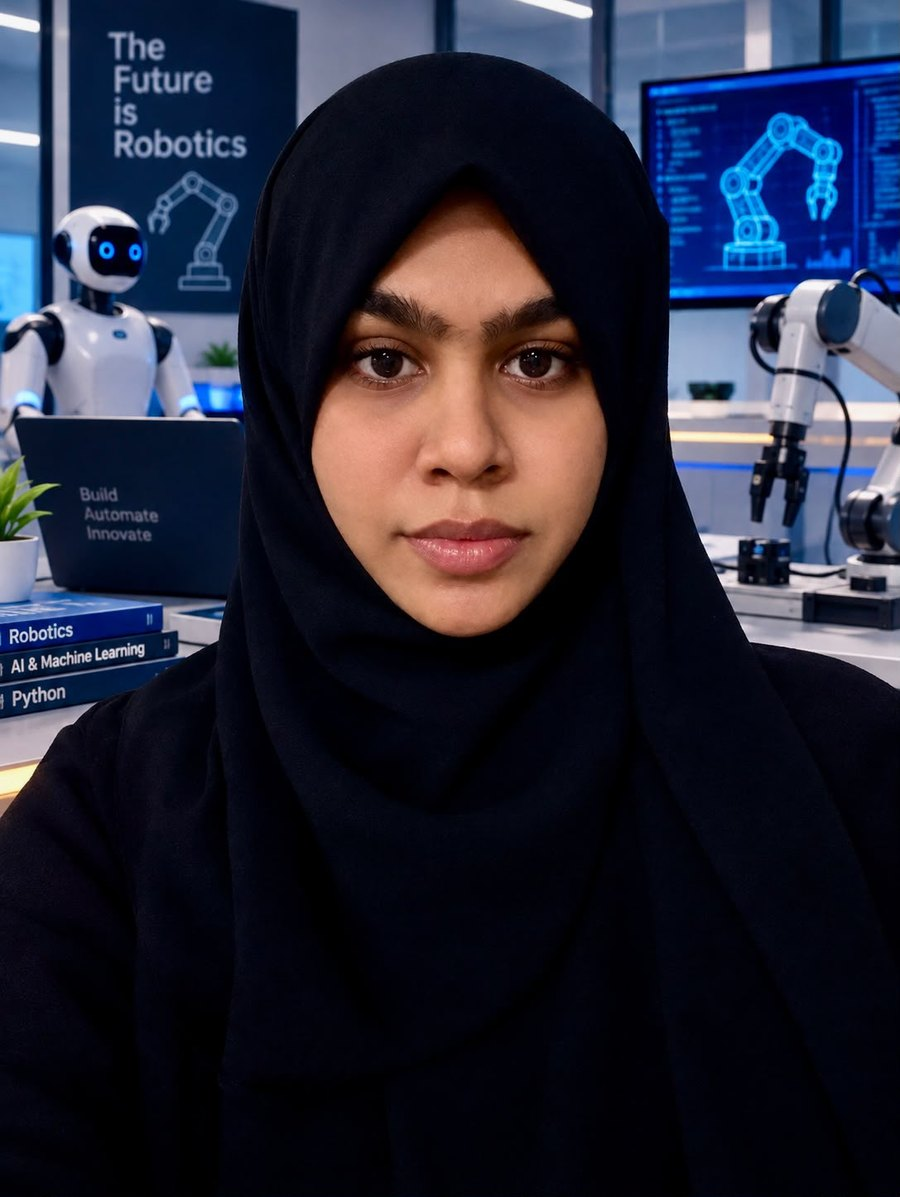
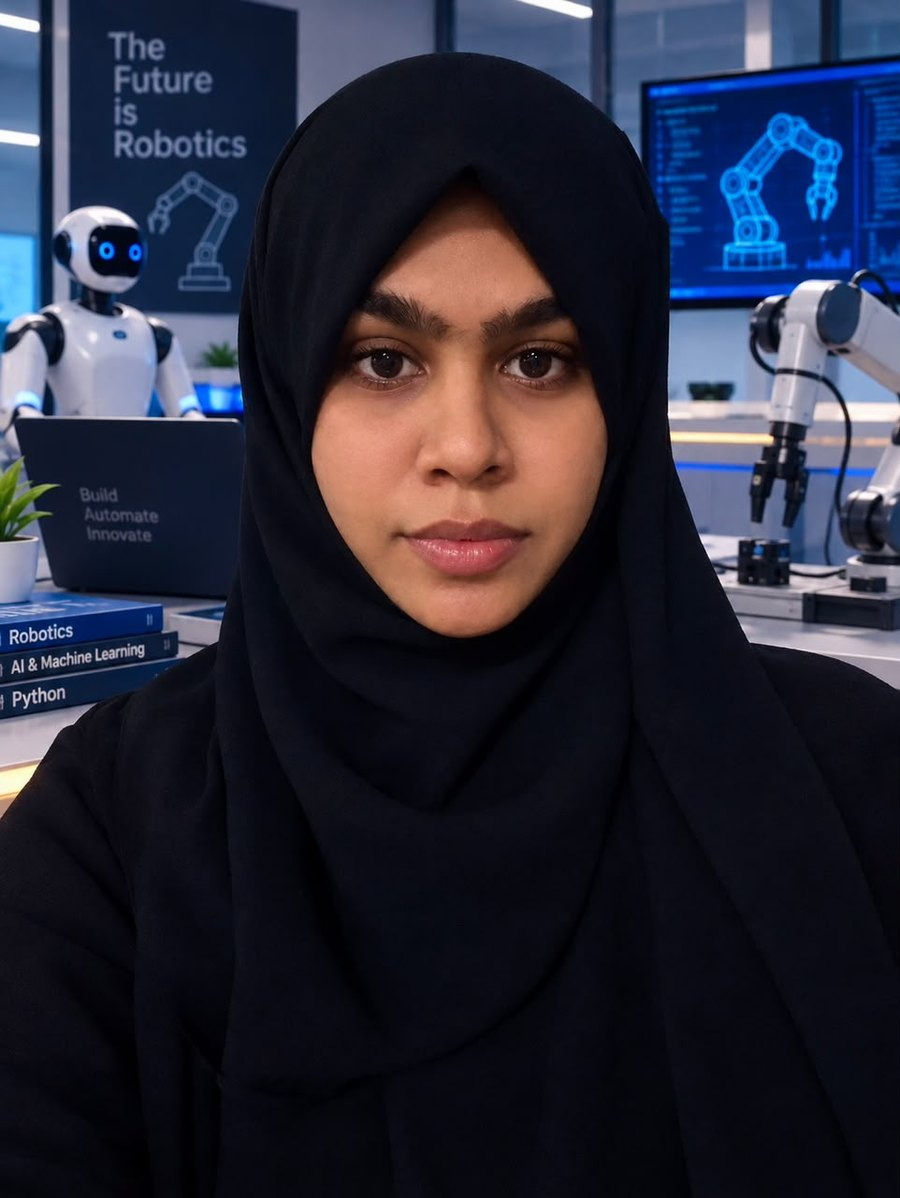
Update portrait photo

diff --git a/index.html b/index.html
@@ -110,7 +110,7 @@
       <div class="about-grid">
         <figure class="id-card">
           <div class="id-photo-wrap">
-            <img id="portrait" src="assets/refeena-portrait.jpg" alt="Portrait of Refeena Refath" width="900" height="1197" loading="lazy">
+            <img id="portrait" src="assets/refeena-portrait.jpg" alt="Portrait of Refeena Refath" width="900" height="1198" loading="lazy">
             <span class="scanline" aria-hidden="true"></span>
           </div>
           <figcaption class="id-meta">
